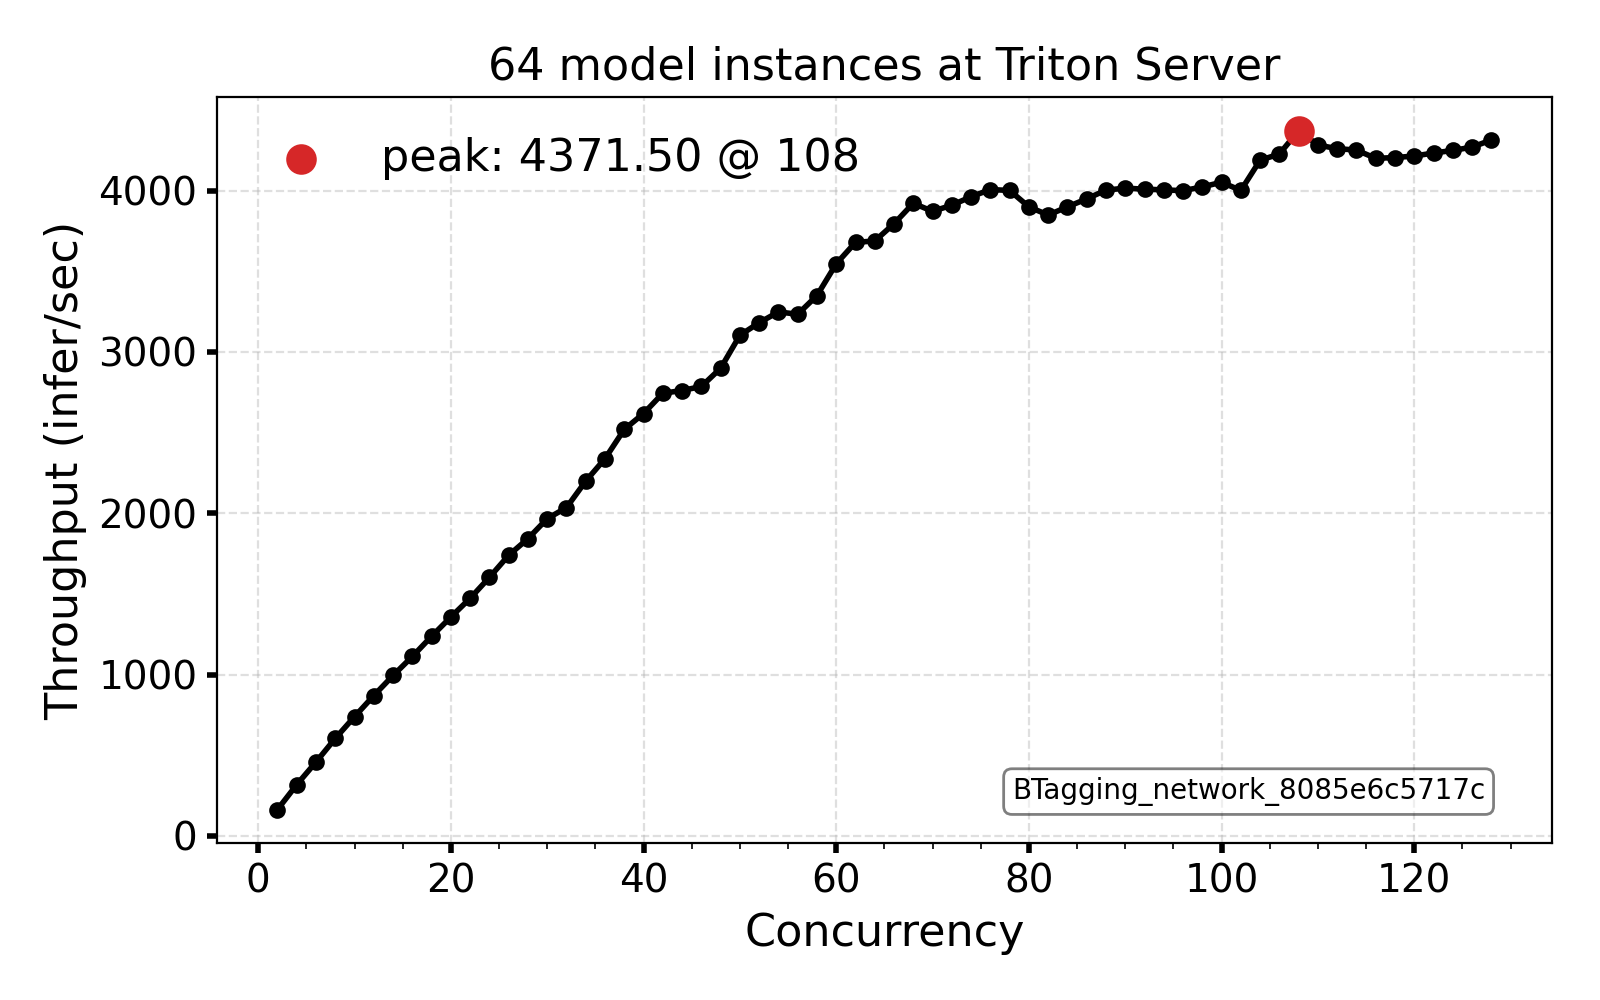
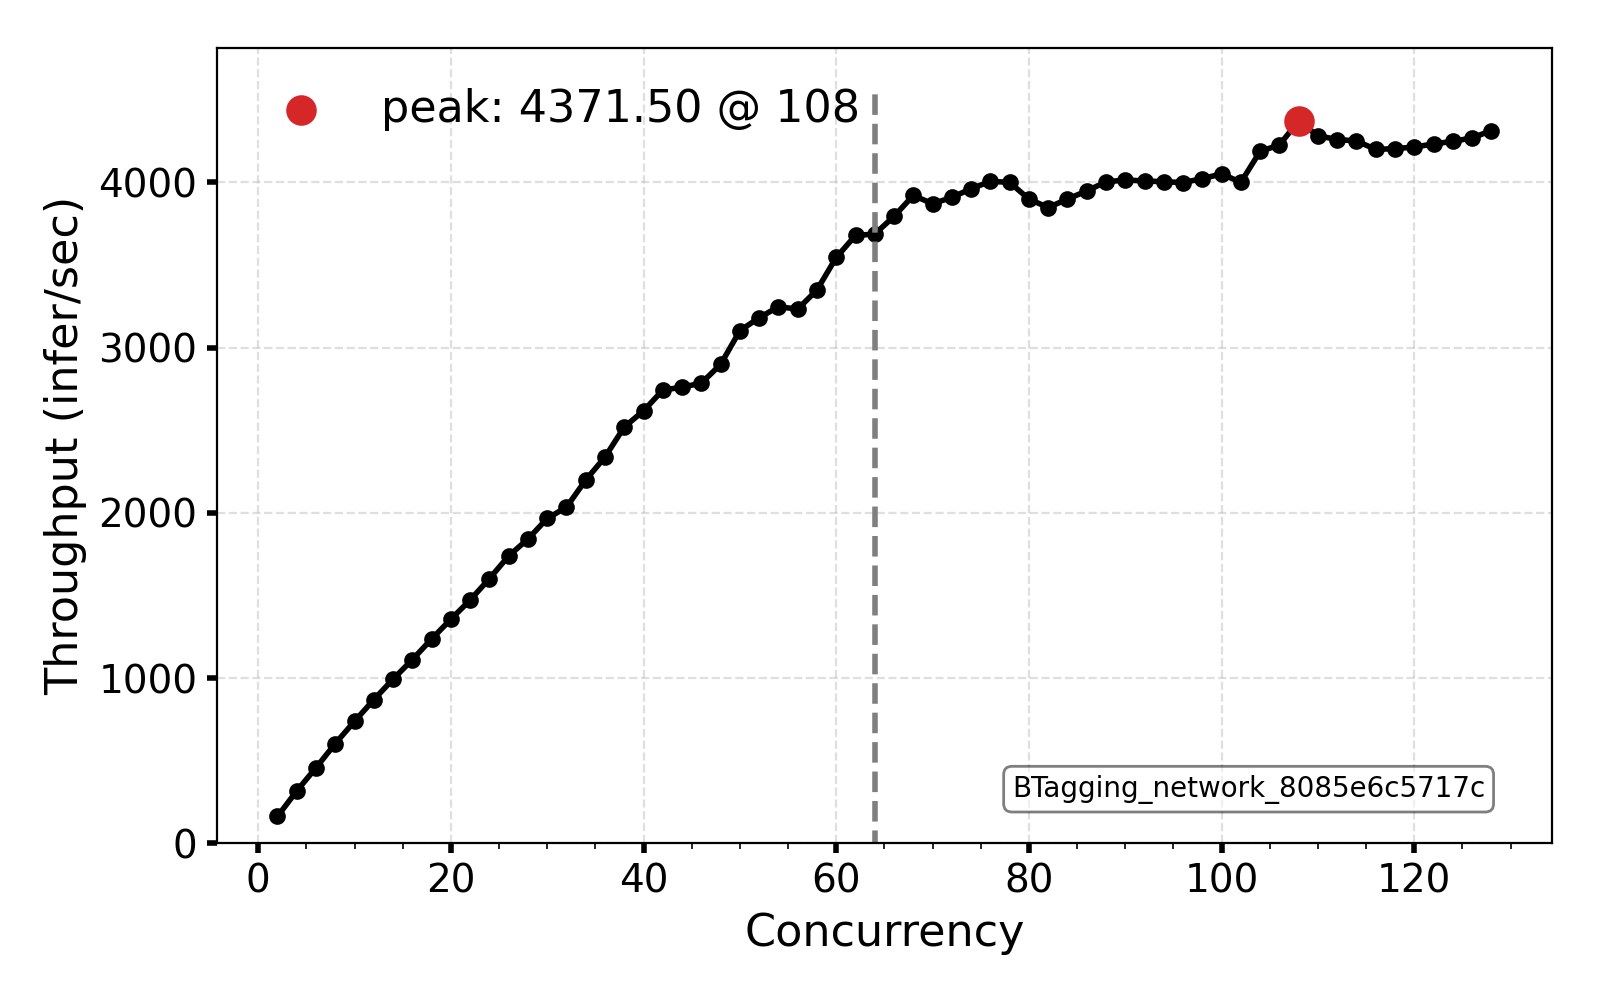
add dash lines

diff --git a/scripts/plot_inference_vs_concurrency.py b/scripts/plot_inference_vs_concurrency.py
@@ -39,6 +39,10 @@ def parse_args() -> argparse.Namespace:
         "-l", "--label", default=None,
         help="Y-axis label (default: inferred from column name)."
     )
+    parser.add_argument(
+        "-n", "--num-instances", type=int, default=None,
+        help="Number of model instances to indicate with a vertical dashed line (optional)."
+    )
     return parser.parse_args()
 
 
@@ -72,6 +76,7 @@ def plot_data(
     output_path: Path,
     title: str,
     column_name: str,
+    num_instances: int | None = None,
     column_label: str | None = None,
     model_name: str | None = None,
 ) -> None:
@@ -112,10 +117,21 @@ def plot_data(
             horizontalalignment="right",
             bbox=dict(boxstyle="round,pad=0.3", facecolor="white", alpha=0.5),
         )
+    if num_instances is not None:
+        ax.vlines(
+            num_instances,
+            ax.get_ylim()[0],
+            ax.get_ylim()[1],
+            colors="tab:grey",
+            linestyles="dashed",
+            linewidth=2,
+            # label=f"{num_instances} model instances",
+        )
     ax.set_title(title)
     ax.set_xlabel("Concurrency")
     ax.set_ylabel(column_label or column_name)
     ax.grid(True, linestyle="--", alpha=0.4)
+    ax.set_ylim(bottom=0)
     ax.legend()
     fig.tight_layout()
     fig.savefig(output_path, dpi=200)
@@ -142,7 +158,8 @@ def main() -> int:
         print(str(exc), file=sys.stderr)
         return 1
 
-    plot_data(concurrency_values, throughput_values, output_path, args.title, args.column, args.label, args.model)
+    plot_data(concurrency_values, throughput_values, output_path, args.title,
+              args.column, args.num_instances, args.label, args.model)
     print(f"Wrote plot to {output_path}")
     return 0
 